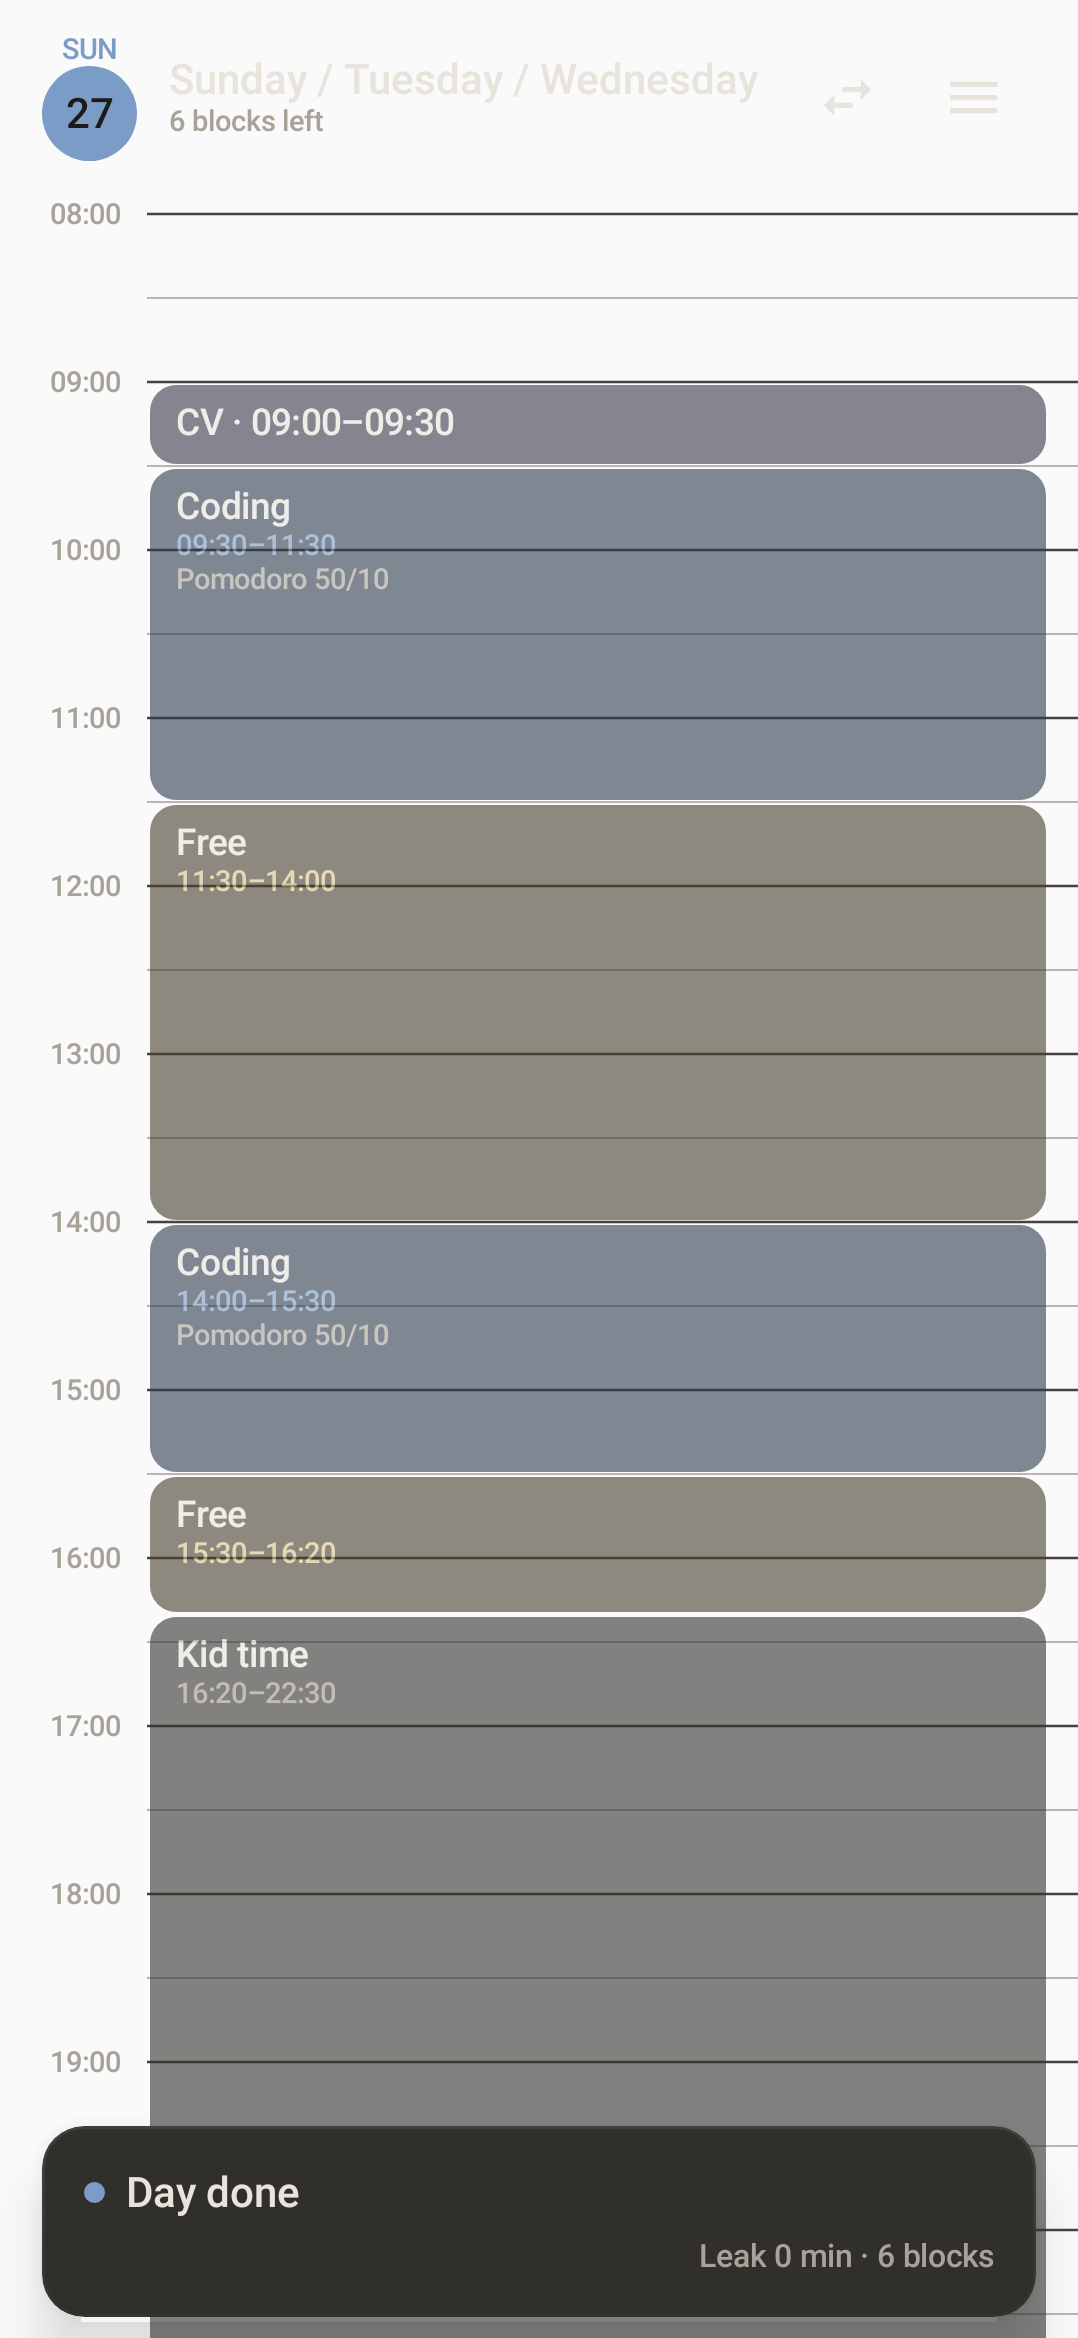
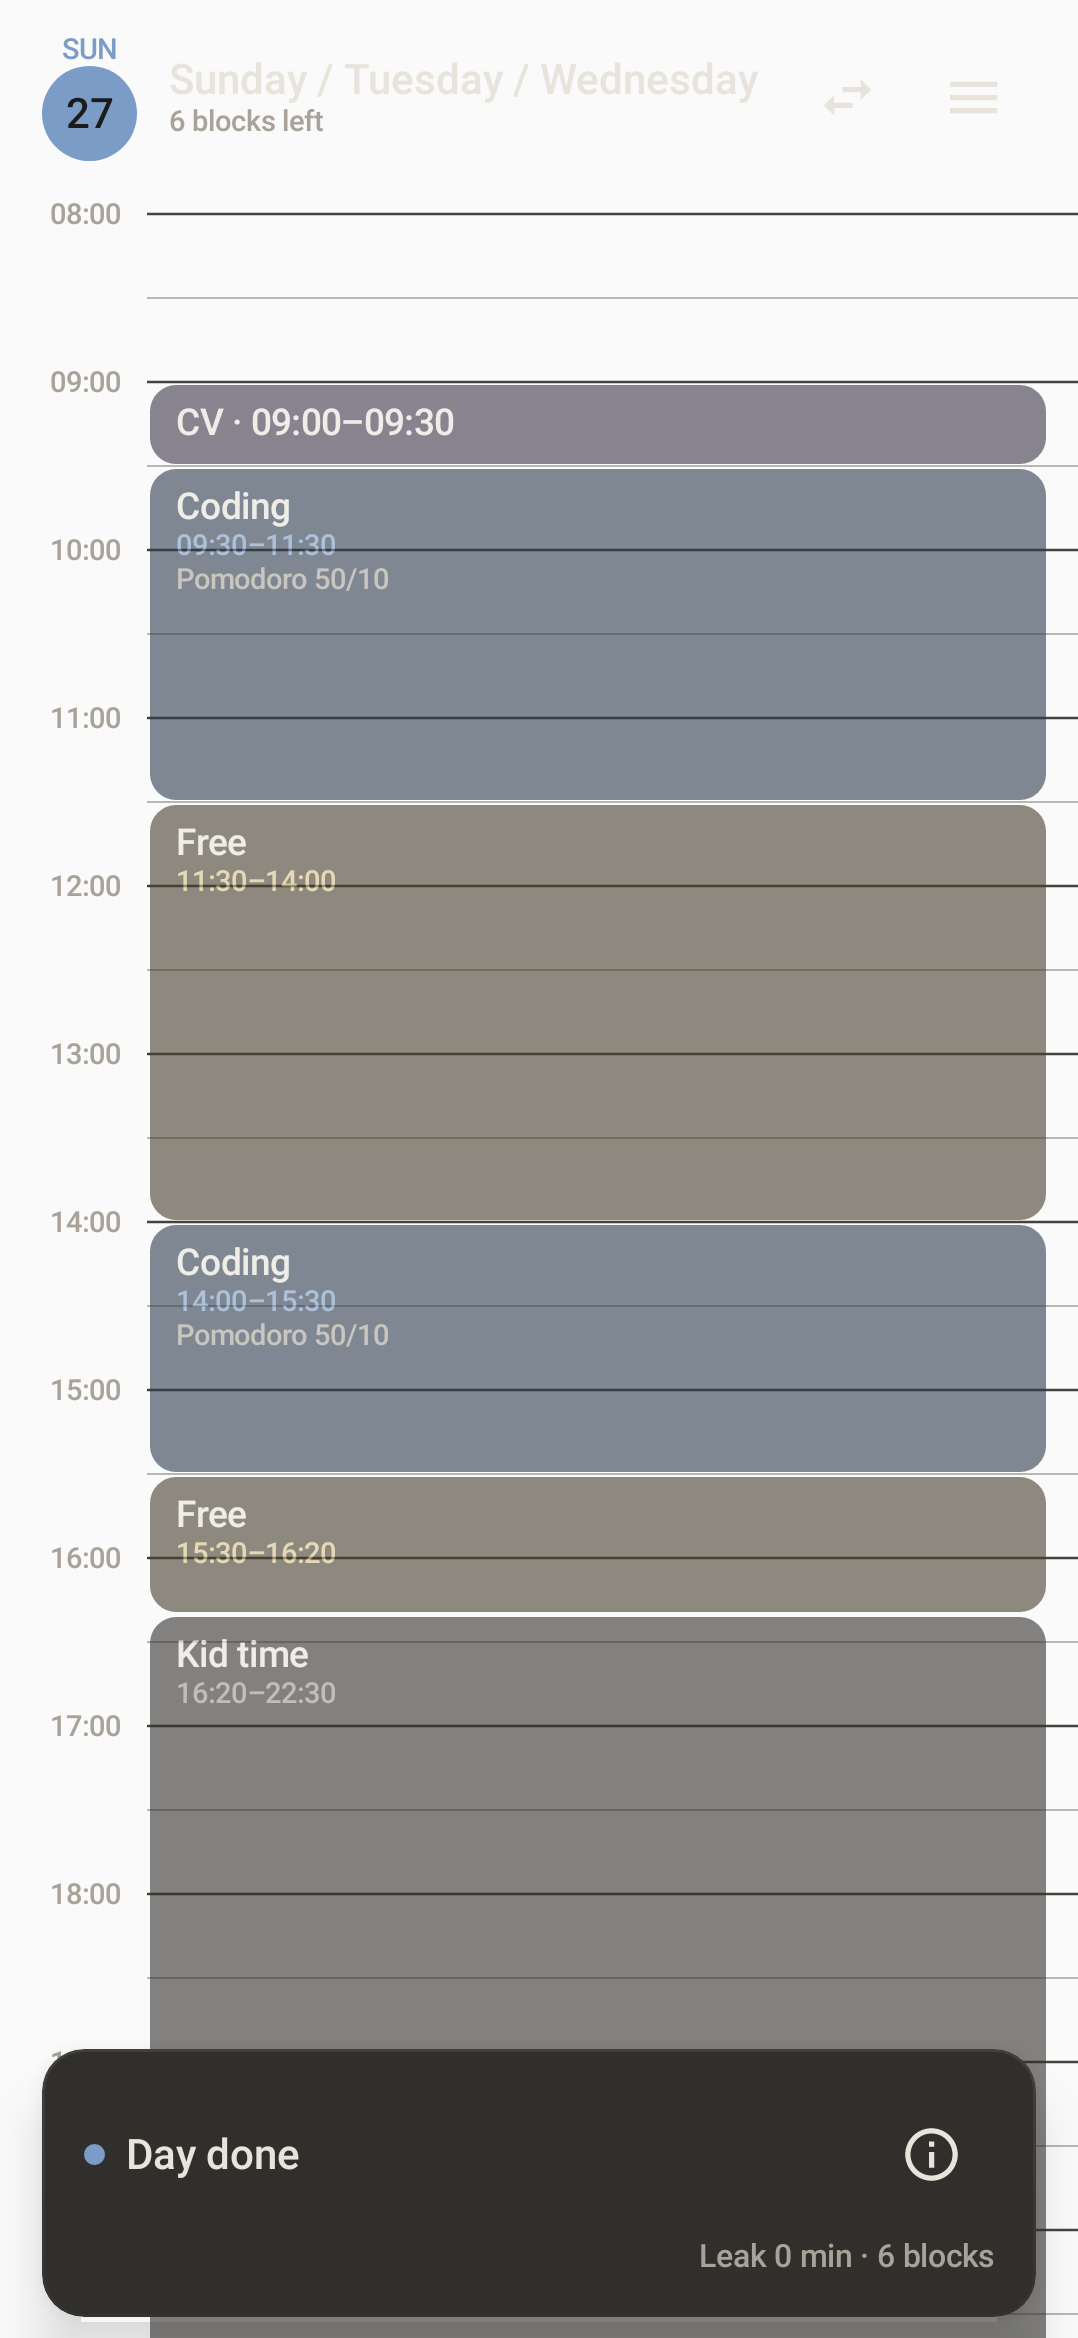
task4: record the 13 required Task-4 screenshots
Task-4.md:661 requires now_card_*, dialog_*, and the weekly/insights/
history/time_debt/settings captures, populated and empty. Only the six
pre-Task-4 home/picker shots existed.

Roborazzi only writes in record mode, so these need
-Proborazzi.test.record=true to regenerate.

dialog_pause.png first came out byte-identical to now_card_running.png:
settle() leaves mainClock.autoAdvance off, so waitForIdle() after the
click never drew the recomposed frame. Advancing the clock fixes it, and
each dialog capture now asserts its expected text exists before writing,
so a silently-empty screenshot fails the build instead of shipping.

The five home_*.png are re-encoded with small byte deltas only.

Changed region(s): [[0.0306, 0.8743, 0.9796, 0.9679]]

diff --git a/app/src/test/java/com/roni/blocks/ScreenshotsTest.kt b/app/src/test/java/com/roni/blocks/ScreenshotsTest.kt
@@ -1,8 +1,12 @@
 package com.roni.blocks
 
 import androidx.compose.runtime.Composable
+import androidx.compose.ui.Modifier
+import androidx.compose.ui.platform.testTag
 import androidx.compose.ui.test.junit4.createComposeRule
+import androidx.compose.ui.test.onNodeWithText
 import androidx.compose.ui.test.onRoot
+import androidx.compose.ui.test.performClick
 import androidx.test.core.app.ApplicationProvider
 import androidx.test.ext.junit.runners.AndroidJUnit4
 import com.github.takahirom.roborazzi.captureRoboImage
@@ -10,14 +14,22 @@ import com.roni.blocks.core.model.TemplateId
 import com.roni.blocks.core.storage.TemplateManager
 import com.roni.blocks.designsystem.BlocksTheme
 import com.roni.blocks.designsystem.templateDisplay
+import com.roni.blocks.expectations.FakeStates
+import com.roni.blocks.feature.history.HistoryScreen
 import com.roni.blocks.feature.home.FakeHomeStates
 import com.roni.blocks.feature.home.HomeScreen
 import com.roni.blocks.feature.home.HomeState
+import com.roni.blocks.feature.home.NowCard
+import com.roni.blocks.feature.home.NowCardUi
+import com.roni.blocks.feature.insights.InsightsScreen
+import com.roni.blocks.feature.settings.SettingsScreen
+import com.roni.blocks.feature.timedebt.TimeDebtScreen
 import com.roni.blocks.feature.templatepicker.PickerCard
 import com.roni.blocks.feature.templatepicker.PickerUiState
 import com.roni.blocks.feature.templatepicker.TemplatePickerScreen
 import com.roni.blocks.feature.templatepicker.stripFor
 import com.roni.blocks.feature.templatepicker.summarize
+import com.roni.blocks.feature.weekly.WeeklyScreen
 import kotlinx.collections.immutable.toPersistentList
 import org.junit.Rule
 import org.junit.Test
@@ -66,6 +78,123 @@ class ScreenshotsTest {
     @Test
     fun home_ended() {
         home("home_ended.png", FakeHomeStates.ended(), minute = 22 * 60 + 40, countdown = "", progress = 0f)
+    }
+
+    @Test
+    fun now_card_running() {
+        nowCard("now_card_running.png", FakeStates.nowRunningCoding(), "50 min left", 0.2f)
+    }
+
+    @Test
+    fun now_card_leaking() {
+        nowCard("now_card_leaking.png", FakeStates.nowLeakingCv(), "-02:13", 1f)
+    }
+
+    @Test
+    fun dialog_pause() {
+        nowCard(
+            "dialog_pause.png",
+            FakeStates.nowRunningCoding(),
+            "50 min left",
+            0.2f,
+            click = "Pause",
+            expect = "Don't ask again",
+        )
+    }
+
+    @Test
+    fun dialog_info() {
+        nowCard(
+            "dialog_info.png",
+            FakeStates.nowRunningCoding(),
+            "50 min left",
+            0.2f,
+            infoDialogOpen = true,
+            expect = "What the buttons do",
+        )
+    }
+
+    @Test
+    fun weekly() {
+        settle { WeeklyScreen(FakeStates.weeklyWithData()) {} }
+        capture("weekly.png")
+    }
+
+    @Test
+    fun weekly_empty() {
+        settle { WeeklyScreen(FakeStates.weeklyEmpty()) {} }
+        capture("weekly_empty.png")
+    }
+
+    @Test
+    fun insights() {
+        settle { InsightsScreen(FakeStates.insightsWithData()) {} }
+        capture("insights.png")
+    }
+
+    @Test
+    fun insights_empty() {
+        settle { InsightsScreen(FakeStates.insightsEmpty(3)) {} }
+        capture("insights_empty.png")
+    }
+
+    @Test
+    fun history() {
+        settle { HistoryScreen(FakeStates.historyWithDays()) {} }
+        capture("history.png")
+    }
+
+    @Test
+    fun history_empty() {
+        settle { HistoryScreen(FakeStates.historyEmpty()) {} }
+        capture("history_empty.png")
+    }
+
+    @Test
+    fun time_debt() {
+        settle { TimeDebtScreen(FakeStates.timeDebtWithDebt()) {} }
+        capture("time_debt.png")
+    }
+
+    @Test
+    fun time_debt_empty() {
+        settle { TimeDebtScreen(FakeStates.timeDebtEmpty()) {} }
+        capture("time_debt_empty.png")
+    }
+
+    @Test
+    fun settings() {
+        settle { SettingsScreen(FakeStates.settingsDefault()) {} }
+        capture("settings.png")
+    }
+
+    private fun nowCard(
+        name: String,
+        ui: NowCardUi,
+        countdown: String,
+        progress: Float,
+        infoDialogOpen: Boolean = false,
+        click: String? = null,
+        expect: String? = null,
+    ) {
+        settle {
+            NowCard(
+                ui = ui,
+                countdownText = { countdown },
+                progress = { progress },
+                onAction = {},
+                infoDialogOpen = infoDialogOpen,
+                onDismissInfoDialog = {},
+                modifier = Modifier.testTag("now_card"),
+            )
+        }
+        if (click != null) {
+            compose.onNodeWithText(click).performClick()
+            compose.mainClock.advanceTimeBy(1_000)
+            compose.waitForIdle()
+        }
+        expect?.let { compose.onNodeWithText(it, substring = true).assertExists() }
+        capture(name)
     }
 
     private fun home(name: String, state: HomeState, minute: Int, countdown: String, progress: Float) {
